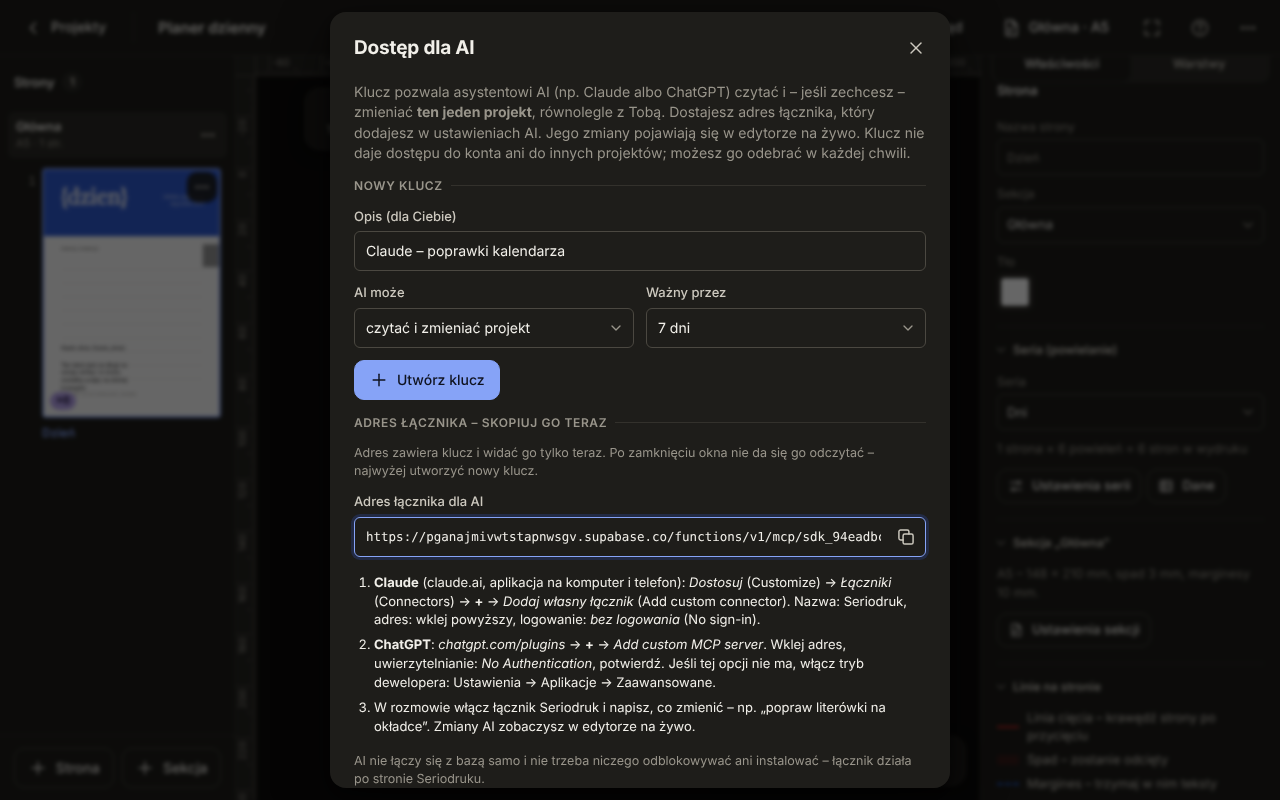
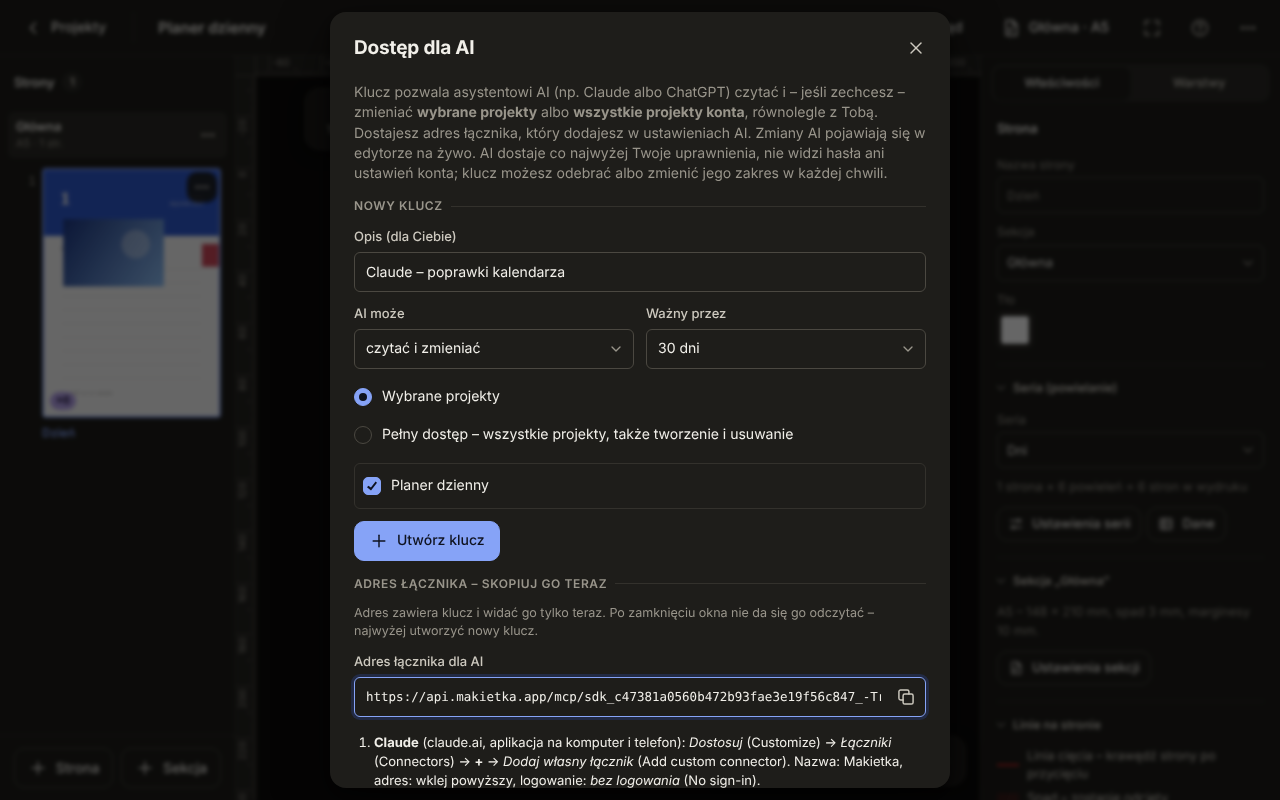
WIP: klucze AI konta – dokumentacja łącznika, instrukcja, zrzut okna

diff --git a/js/instrukcja.js b/js/instrukcja.js
@@ -520,17 +520,18 @@ export const ROZDZIALY = [
   },
   {
     tytul: 'Praca z AI',
-    wstep: 'Asystent AI (Claude, ChatGPT) może czytać i poprawiać jeden projekt razem z Tobą. Podłączasz go adresem łącznika Makietka – bez instalowania czegokolwiek i bez zmieniania ustawień sieci. Zmiany AI pojawiają się w otwartym edytorze po chwili, tak jak zmiany z drugiego urządzenia.',
+    wstep: 'Asystent AI (Claude, ChatGPT) może czytać i poprawiać wybrane projekty albo wszystkie projekty konta razem z Tobą – a z pełnym dostępem także tworzyć i usuwać projekty. Podłączasz go adresem łącznika Makietka – bez instalowania czegokolwiek i bez zmieniania ustawień sieci. Zmiany AI pojawiają się w otwartym edytorze po chwili, tak jak zmiany z drugiego urządzenia.',
     obraz: 'dostep-ai.png',
-    podpis: 'Nowy klucz dla AI: adres łącznika do skopiowania i kroki dla Claude i ChatGPT.',
+    podpis: 'Klucze AI konta: zakres (wybrane projekty albo pełny dostęp), adres łącznika do skopiowania i kroki dla Claude i ChatGPT.',
     punkty: [
-      'W edytorze menu <b>⋯</b> → <b>Dostęp dla AI…</b>. Wpisz, dla kogo jest klucz, wybierz <b>Czyta i zmienia</b> albo <b>Tylko czyta</b> i ważność (1, 7 albo 30 dni), potem <b>Utwórz klucz</b>.',
+      'Klucz należy do konta: <b>Ustawienia konta → Dostęp dla AI → Zarządzaj…</b> (albo w edytorze menu <b>⋯</b> → <b>Dostęp dla AI…</b> – wtedy otwarty projekt jest od razu zaznaczony). Wpisz, dla kogo jest klucz, wybierz <b>Czyta i zmienia</b> albo <b>Tylko czyta</b>, ważność (od 1 dnia do roku albo bez terminu) i zakres, potem <b>Utwórz klucz</b>.',
+      '<b>Zakres.</b> <b>Wybrane projekty</b> – zaznaczasz projekty (własne i udostępnione Ci przez innych). <b>Pełny dostęp</b> – wszystkie projekty konta, także te, które dojdą później; AI może wtedy też <b>tworzyć nowe projekty</b> i <b>usuwać</b> Twoje (zawsze z podaniem dokładnej nazwy projektu). W rozmowie AI zaczyna od listy projektów i pyta, na którym pracować – albo napisz od razu, np. „w projekcie Kalendarz 2027 popraw literówki”.',
       'Okno pokaże <b>adres łącznika</b> (z kluczem w środku). Widać go <b>tylko raz</b> – skopiuj go od razu przyciskiem obok.',
       '<b>Claude</b> (claude.ai, aplikacja na komputer i telefon): <b>Dostosuj → Łączniki</b> (Customize → Connectors) → <b>+</b> → <b>Dodaj własny łącznik</b>. Nazwa: Makietka, adres: wklej skopiowany, logowanie: <b>bez logowania</b> (No sign-in). W rozmowie włącz łącznik i napisz np. „Przejrzyj mój projekt w Makietce i popraw literówki w tytułach”.',
       '<b>ChatGPT</b>: <b>chatgpt.com/plugins</b> → <b>+</b> → <b>Add custom MCP server</b>, wklej adres, uwierzytelnianie <b>No Authentication</b>, potwierdź. Gdy tej opcji nie ma, włącz tryb dewelopera (Ustawienia → Aplikacje → Zaawansowane).',
       'Łącznik działa po stronie Makietki: Claude i ChatGPT łączą się z nim ze swoich serwerów. Jeśli AI prosi o odblokowanie domeny albo zmianę ustawień sieci, żeby łączyć się z bazą, nie rób tego – poproś, żeby użyło narzędzi łącznika Makietka (a jeśli ich nie ma, dodaj łącznik jak wyżej).',
       'W części <b>Dla zaawansowanych</b> okno ma sam klucz, polecenie dla <b>Claude Code</b> i serwer do uruchomienia u siebie. Szczegóły: <a href="ai/api.md" target="_blank" rel="noopener">Dostęp dla AI</a>.',
-      'Klucz otwiera <b>tylko ten projekt</b>: AI może zmieniać strony, elementy, wzorce, style, tabele danych, serie i sekcje oraz obrazy projektu, ale nie utworzy ani nie usunie projektu, nie wgra czcionek i nie zobaczy innych projektów.',
+      'AI dostaje co najwyżej Twoje uprawnienia: w projekcie, który ktoś Ci udostępnił tylko do oglądania, klucz tylko czyta, a gdy właściciel odbierze Ci dostęp, klucz traci go od razu. Klucz nie otwiera ustawień konta, hasła, czcionek konta, linków udostępniania ani współpracy.',
       '<b>Obrazy przez AI.</b> AI robi z obrazami to samo co Ty w oknie <b>Obrazy projektu</b>: wgrywa je, wstawia na stronę jako pojedyncze zdjęcie (z ramką „zmieść” albo „wypełnij”), zmienia nazwy, podmienia pliki, usuwa nieużywane i porządkuje powtórzenia. Wgrany obraz pojawia się u Ciebie po chwili, a przy najbliższym zapisie trafia na Twoje konto jak każdy inny.',
       '<b>Skąd AI bierze zdjęcia.</b> Łącznik przyjmuje od AI tylko tekst, więc zdjęcia, które masz u siebie, dochodzą inną drogą – zależnie od aplikacji. Wielkość nie gra roli: jeden obraz do 25 MB, ZIP do 50 MB.',
       '<b>ChatGPT:</b> zdjęcia i ZIP-y wrzucone do rozmowy wchodzą wprost – ChatGPT sam podaje je łącznikowi.',
@@ -539,9 +540,10 @@ export const ROZDZIALY = [
       '<b>Poza tym:</b> link do pliku albo ZIP-a na <b>Dysku Google</b> lub w <b>Dropboxie</b> udostępnionego „każdemu, kto ma link” (Dropbox odda też cały folder) i rysunki SVG, które AI samo narysuje (ozdobniki, ikony, ramki).',
       '<b>Wymiana użytych zdjęć.</b> Obrazu, który stoi na stronie, AI nie usuwa – zostałaby pusta ramka. Wymienia go jednym krokiem na nowy plik (podmiana): wszystkie strony, wzorce i dane pokazują od razu nowy, a stary znika. Gdy wgrywasz sam, to samo daje w oknie <b>Obrazy projektu</b> „Zastąp” z zaznaczonym „Tak samo dla pozostałych plików o powtórzonych nazwach”. Szczegóły: <a href="ai/api.md" target="_blank" rel="noopener">Dostęp dla AI</a>.',
       'Zmiany AI łączą się z Twoimi element po elemencie: gdy Ty przesuwasz zdjęcie, a AI poprawia tytuł, zostają obie zmiany. <b>Cofnij</b> zdejmuje tylko Twoje zmiany.',
-      'Lista w tym samym oknie pokazuje aktywne klucze i to, kiedy ostatnio ich użyto. <b>Odbierz</b> wyłącza klucz – i adres łącznika – od razu.',
+      'Lista <b>Klucze konta</b> pokazuje zakres, ważność i to, kiedy klucza ostatnio użyto. <b>Zmień zakres</b> dodaje i usuwa projekty albo przełącza na pełny dostęp – adres łącznika się nie zmienia. <b>Odbierz</b> wyłącza klucz – i adres łącznika – od razu.',
+      'Projekt utworzony przez AI pojawia się na liście projektów od razu. Projekt usunięty przez AI znika z listy (także z tego urządzenia); jeśli akurat był otwarty, edytor zamyka się z wyjaśnieniem.',
     ],
-    rada: 'Adres łącznika (z kluczem) trafia do firmy, która prowadzi AI. Dawaj najkrótszą ważność, jaka wystarczy, i odbieraj klucz po skończonej pracy. Przed dużymi zmianami zrób <b>Eksport</b> projektu.',
+    rada: 'Adres łącznika (z kluczem) trafia do firmy, która prowadzi AI. Dawaj najwęższy zakres i najkrótszą ważność, jaka wystarczy, i odbieraj klucz po skończonej pracy. Pełny dostęp daj tylko AI, któremu ufasz przy usuwaniu projektów. Przed dużymi zmianami zrób <b>Eksport</b> projektu.',
   },
   {
     tytul: 'Linie i ostrzeżenia',

diff --git a/ai/api.md b/ai/api.md
@@ -1,27 +1,33 @@
 # Makietka – dostęp dla AI
 
-Asystent AI (Claude, ChatGPT i inne) może czytać i poprawiać **jeden konkretny projekt** Makietki – równolegle z Tobą. Jego zmiany pojawiają się w otwartym edytorze po chwili, tak jak zmiany z drugiego urządzenia: zmiany różnych elementów łączą się bez pytania, a o ten sam element aplikacja zapyta.
+Asystent AI (Claude, ChatGPT i inne) może czytać i poprawiać **wybrane projekty** Makietki albo **wszystkie projekty konta** (wtedy także tworzyć i usuwać projekty) – równolegle z Tobą. Jego zmiany pojawiają się w otwartym edytorze po chwili, tak jak zmiany z drugiego urządzenia: zmiany różnych elementów łączą się bez pytania, a o ten sam element aplikacja zapyta.
 
 Dokumenty obok: [instrukcja obsługi](https://makietka.app/ai/instrukcja.md), [format projektu](https://makietka.app/ai/format-makietka.md) (model danych, który AI zmienia).
 
-> **Dla asystenta AI:** nie łącz się z bazą z własnej piaskownicy – używaj narzędzi łącznika Makietka. Projekt czytasz i zmieniasz wyłącznie narzędziami łącznika (`przeglad_projektu`, `czytaj`, `zmien_elementy`…); one działają po stronie Makietki. Jeśli tych narzędzi nie masz, poproś użytkownika o dodanie łącznika (punkt 2) – nie proś o odblokowanie domen ani o zmianę ustawień sieci. Pliki z własnego środowiska wgrywasz narzędziem `wgraj_czesciami`.
+> **Dla asystenta AI:** nie łącz się z bazą z własnej piaskownicy – używaj narzędzi łącznika Makietka. Zacznij od narzędzia `projekty` (projekty w zasięgu klucza), a w narzędziach projektu podawaj `projekt` (id albo nazwa). Projekty czytasz i zmieniasz wyłącznie narzędziami łącznika (`przeglad_projektu`, `czytaj`, `zmien_elementy`…); one działają po stronie Makietki. Jeśli tych narzędzi nie masz, poproś użytkownika o dodanie łącznika (punkt 2) – nie proś o odblokowanie domen ani o zmianę ustawień sieci. Pliki z własnego środowiska wgrywasz narzędziem `wgraj_czesciami`.
 
 ## 1. Klucz i adres łącznika
 
-1. Otwórz projekt, menu **⋯** → **Dostęp dla AI…**.
-2. Wpisz, dla kogo jest klucz (np. „Claude – kalendarz”), wybierz **Czyta i zmienia** albo **Tylko czyta** i ważność: 1 dzień, 7 albo 30 dni.
+Klucz należy do **konta**, nie do jednego projektu.
+
+1. **Ustawienia konta → Dostęp dla AI → Zarządzaj…** (albo w otwartym projekcie menu **⋯** → **Dostęp dla AI…** – wtedy ten projekt jest od razu zaznaczony).
+2. Wpisz, dla kogo jest klucz (np. „Claude – kalendarze”), wybierz **Czyta i zmienia** albo **Tylko czyta**, ważność (1, 7, 30, 90 dni, rok albo bez terminu) i zakres:
+   - **Wybrane projekty** – zaznaczasz projekty (własne i udostępnione Ci przez innych); listę zmienisz potem bez zmiany adresu,
+   - **Pełny dostęp** – wszystkie projekty konta, także te, które dojdą później; klucz, który czyta i zmienia, może wtedy **tworzyć i usuwać** projekty.
 3. **Utwórz klucz**. Okno pokazuje **adres łącznika** z kluczem w środku:
    `https://api.makietka.app/mcp/sdk_…` – skopiuj go od razu, widać go **tylko raz**.
-4. Lista w tym samym oknie pokazuje aktywne klucze i to, kiedy ostatnio ich użyto. **Odbierz** wyłącza klucz (i adres) od razu.
+4. Lista **Klucze konta** pokazuje zakres, ważność i ostatnie użycie. **Zmień zakres** dodaje i usuwa projekty (albo przełącza na pełny dostęp) – adres łącznika się nie zmienia. **Odbierz** wyłącza klucz (i adres) od razu.
+
+AI dostaje co najwyżej Twoje uprawnienia: w projekcie, który ktoś Ci udostępnił do oglądania, klucz tylko czyta; gdy właściciel odbierze Ci dostęp, klucz traci go od razu.
 
 Łącznik to serwer MCP działający po stronie Makietki. Claude i ChatGPT łączą się z nim **ze swoich serwerów**, więc niczego nie instalujesz i niczego nie odblokowujesz – ani na komputerze, ani w ustawieniach AI.
 
 ### Bezpieczeństwo
 
-- Adres z kluczem trafia do firmy, która prowadzi AI (Anthropic, OpenAI…). Dlatego klucz jest **wąski**: otwiera jeden projekt, nie konto. Nie da się nim utworzyć ani usunąć projektu, wgrać czcionek, zmienić udostępniania ani zajrzeć do innych projektów. Obrazy klucz do zmian wgrywa, ale tylko do tego projektu i z limitami (obraz do 15 MB, pobierany plik do 50 MB, do 150 MB obrazów czekających na przeniesienie na konto).
+- Adres z kluczem trafia do firmy, która prowadzi AI (Anthropic, OpenAI…). Dlatego daj kluczowi **najwęższy zakres**, jaki wystarczy: wybrane projekty zamiast pełnego dostępu. Klucz nigdy nie otwiera ustawień konta, hasła, czcionek konta, udostępniania linkiem ani współpracy. Tworzyć i usuwać projekty może tylko klucz z pełnym dostępem, który czyta i zmienia; usunięcie wymaga podania dokładnej nazwy projektu, a usunąć można tylko własny projekt (nie udostępniony). Obrazy klucz do zmian wgrywa z limitami (obraz do 25 MB, pobierany plik do 50 MB, do 150 MB obrazów na projekt czekających na przeniesienie na konto).
 - Daj **najkrótszą ważność**, jaka wystarczy, i **odbierz** klucz, gdy praca się skończy. Do samego przeglądania wybierz **Tylko czyta**. Nie wklejaj adresu łącznika w miejsca, które widzą inni.
 - W bazie leży tylko skrót klucza (z solą) – klucza nie da się z niej odczytać ani pokazać ponownie. Zgubiony klucz odbierz i utwórz nowy.
-- Po 10 złych próbach klucz blokuje się na kwadrans; jeden klucz może wykonać do 120 zapytań na minutę; projekt może mieć do 20 aktywnych kluczy.
+- Po 10 złych próbach klucz blokuje się na kwadrans; jeden klucz może wykonać do 120 zapytań na minutę; konto może mieć do 20 aktywnych kluczy.
 - Każdy zapis przechodzi kontrolę spójności (sekcje, wzorce, serie, tabele, obrazy). Niespójna zmiana jest odrzucana z opisem, co poprawić – nie psuje projektu.
 - Zmiany AI to zwykłe zmiany projektu: **Cofnij** w edytorze ich nie zdejmuje (jak zmian z innego urządzenia), ale możesz je poprawić ręcznie; przed dużymi zmianami zrób **Eksport** (kopia zapasowa).
 
@@ -79,8 +85,13 @@ Bez łącznika ChatGPT może wołać funkcje bazy przez opis [openapi.json](http
 
 ## 3. Narzędzia łącznika
 
+Każde narzędzie projektu ma parametr `projekt` (id albo nazwa z listy `projekty`); gdy klucz obejmuje jeden projekt, można go pominąć.
+
 | Narzędzie | Co robi |
 |---|---|
+| `projekty` | lista projektów w zasięgu klucza: id, nazwa, Twój czy udostępniony (przez kogo), czy AI może go zmieniać, ostatnia zmiana; zakres klucza |
+| `nowy_projekt` | nowy, pusty projekt jak „Nowy projekt” w aplikacji: nazwa, format (A4, A5, A6, B5, Kwadrat albo własny w mm), orientacja, pojedyncze strony albo rozkładówki, spad, marginesy – tylko klucz z pełnym dostępem |
+| `usun_projekt` | usuwa własny projekt konta; `potwierdz` – dokładna nazwa projektu – tylko klucz z pełnym dostępem |
 | `przeglad_projektu` | krótki opis: sekcje, strony z elementami (id, rodzaj, początek tekstu), wzorce, style, tabele, serie, obrazy |
 | `czytaj` | pełny JSON strony, wzorca, sekcji, stylu, tabeli, serii, widoku albo całego projektu |
 | `zmien_elementy` | zmienia pola elementów (po id) na stronie albo we wzorcu; `null` usuwa pole |
@@ -152,14 +163,14 @@ Własny skrypt (albo AI w środowisku, które łączy się z bazą) wysyła plik
 
 ```
 curl -X POST --data-binary @zdjecia.zip \
-  "https://api.makietka.app/mcp/sdk_…/obraz?nazwa=zdjecia.zip"
+  "https://api.makietka.app/mcp/sdk_…/obraz?projekt=<id projektu>&nazwa=zdjecia.zip"
 ```
 
 ```python
 import requests
 with open("styczen.jpg", "rb") as f:
     r = requests.post("https://api.makietka.app/mcp/sdk_…/obraz",
-                      params={"nazwa": "styczen.jpg"}, data=f.read())
+                      params={"projekt": "<id projektu>", "nazwa": "styczen.jpg"}, data=f.read())
 print(r.json())  # {"wgrane": [{"nazwa": "styczen.jpg", "id": "z_ai…", "szer": 4000, "wys": 3000, "byl": false}], "opis": "…"}
 ```
 
@@ -169,9 +180,15 @@ Parametry: `nazwa` (z rozszerzeniem), opcjonalnie `zastap` (id albo nazwa obrazu
 
 Adres: `https://api.makietka.app/rest/v1/rpc/<funkcja>`, `POST`, nagłówek `apikey` z publicznym kluczem bazy, treść JSON. Błędy klucza i spójności wracają jako `{"blad": "…", "szczegoly": [...]}` z kodem 200.
 
+**Projekt w kluczu.** Funkcje projektu (`ai_projekt`, `ai_zapisz`, `ai_wgraj_*`, `ai_zmien_obrazy`) dostają projekt w samym parametrze `p_klucz`: klucz, ukośnik i id projektu – `"sdk_…/<uuid projektu>"`. Sam klucz (bez ukośnika) działa, gdy obejmuje dokładnie jeden projekt.
+
+### `ai_projekty`, `ai_nowy_projekt`, `ai_usun_projekt` – projekty konta
+
+`ai_projekty(p_klucz)` → `{"dostep": {"rola", "zakres", "opis", "wazny_do", "tworzenie"}, "projekty": [{"id", "nazwa", "zmieniono", "wersja", "wlasciciel", "moja_rola", "rola"}]}` (`wazny_do` null – bez terminu; `rola` – co może AI w tym projekcie). `ai_nowy_projekt(p_klucz, p_id, p_nazwa, p_dane, p_strony)` – nowy projekt (uuid `p_id`, `p_dane` bez stron, `p_strony` – pełne strony) → `{"id", "nazwa", "wersja"}`. `ai_usun_projekt(p_klucz, p_projekt, p_potwierdz)` – `p_potwierdz` to dokładna nazwa projektu → `{"usunieto", "nazwa"}`. Obie tylko dla klucza z pełnym dostępem, który czyta i zmienia.
+
 ### `ai_projekt` – odczyt
 
-Treść: `{"p_klucz": "sdk_…"}`. Wynik: `{"dostep": {"rola", "opis", "wazny_do"}, "wersja": 12, "projekt": {…}}`. Projekt ma strony w środku (`strony` – lista obiektów stron w kolejności), a `zasoby` tylko z opisem (bez treści plików): `{"z_ab12": {"nazwa": "las.jpg", "typ": "image/jpeg", "szer": 4000, "wys": 3000, "rozmiar": 2345678, "skrot": "…"}}` (wymiary w pikselach, rozmiar w bajtach, `skrot` – SHA-256 treści; starsze obrazy mogą nie mieć wymiarów ani skrótu).
+Treść: `{"p_klucz": "sdk_…/<id projektu>"}`. Wynik: `{"dostep": {"rola", "opis", "wazny_do"}, "wersja": 12, "projekt": {…}}`. Projekt ma strony w środku (`strony` – lista obiektów stron w kolejności), a `zasoby` tylko z opisem (bez treści plików): `{"z_ab12": {"nazwa": "las.jpg", "typ": "image/jpeg", "szer": 4000, "wys": 3000, "rozmiar": 2345678, "skrot": "…"}}` (wymiary w pikselach, rozmiar w bajtach, `skrot` – SHA-256 treści; starsze obrazy mogą nie mieć wymiarów ani skrótu).
 
 ### `ai_zapisz` – zapis
 
@@ -206,4 +223,4 @@ Treść: `{"p_klucz": "sdk_…", "p_kopie": {"z_nowe": {"z": "z_ab12", "nazwa": 
 
 ### Funkcje właściciela (zalogowany użytkownik aplikacji)
 
-`utworz_dostep_ai(p_projekt, p_opis, p_rola, p_dni)` → `{id, klucz, wazny_do}`, `dostepy_ai(p_projekt)` → lista kluczy bez ich treści, `odwolaj_dostep_ai(p_id)`. Obrazy od AI: `pobierz_obraz_ai(p_id)` → `{typ, nazwa, dane}` (base64) albo – dla pliku w kawałkach – `{typ, nazwa, rozmiar, skrot, czesci}` i wtedy `pobierz_czesc_obrazu_ai(p_id, p_nr)` → base64 kawałka; `usun_obraz_ai(p_id)`; pliki do usunięcia z folderu konta: `pliki_do_usuniecia(p_projekt)` → lista ścieżek, `pliki_usuniete(p_projekt, p_sciezki)`. Tabela `dostepy_projektu` ma pole `rodzaj` (`klucz` albo `uzytkownik`) – przygotowane pod późniejsze wspólne edytowanie projektu przez innych użytkowników.
+`utworz_dostep_ai(p_opis, p_rola, p_dni, p_zakres, p_projekty)` → `{id, klucz, wazny_do}` (`p_dni` null – bez terminu; `p_zakres` `wybrane` z listą `p_projekty` albo `pelny`), `dostepy_ai()` → klucze konta bez ich treści (z zakresem i nazwami projektów), `zmien_dostep_ai(p_id, p_zakres, p_projekty)` – nowy zakres bez zmiany klucza, `odwolaj_dostep_ai(p_id)`. Obrazy od AI: `pobierz_obraz_ai(p_id)` → `{typ, nazwa, dane}` (base64) albo – dla pliku w kawałkach – `{typ, nazwa, rozmiar, skrot, czesci}` i wtedy `pobierz_czesc_obrazu_ai(p_id, p_nr)` → base64 kawałka; `usun_obraz_ai(p_id)`; pliki do usunięcia z folderu konta: `pliki_do_usuniecia(p_projekt)` → lista ścieżek, `pliki_usuniete(p_projekt, p_sciezki)`.

diff --git a/ai/instrukcja.md b/ai/instrukcja.md
@@ -569,18 +569,19 @@ Projekt możesz robić razem z innymi osobami – każda na swoim koncie. Zapras
 
 ## 28. Praca z AI
 
-Asystent AI (Claude, ChatGPT) może czytać i poprawiać jeden projekt razem z Tobą. Podłączasz go adresem łącznika Makietka – bez instalowania czegokolwiek i bez zmieniania ustawień sieci. Zmiany AI pojawiają się w otwartym edytorze po chwili, tak jak zmiany z drugiego urządzenia.
+Asystent AI (Claude, ChatGPT) może czytać i poprawiać wybrane projekty albo wszystkie projekty konta razem z Tobą – a z pełnym dostępem także tworzyć i usuwać projekty. Podłączasz go adresem łącznika Makietka – bez instalowania czegokolwiek i bez zmieniania ustawień sieci. Zmiany AI pojawiają się w otwartym edytorze po chwili, tak jak zmiany z drugiego urządzenia.
 
-![Nowy klucz dla AI: adres łącznika do skopiowania i kroki dla Claude i ChatGPT.](https://makietka.app/img/instrukcja/dostep-ai.png)
-*Nowy klucz dla AI: adres łącznika do skopiowania i kroki dla Claude i ChatGPT.*
+![Klucze AI konta: zakres (wybrane projekty albo pełny dostęp), adres łącznika do skopiowania i kroki dla Claude i ChatGPT.](https://makietka.app/img/instrukcja/dostep-ai.png)
+*Klucze AI konta: zakres (wybrane projekty albo pełny dostęp), adres łącznika do skopiowania i kroki dla Claude i ChatGPT.*
 
-- W edytorze menu **⋯** → **Dostęp dla AI…**. Wpisz, dla kogo jest klucz, wybierz **Czyta i zmienia** albo **Tylko czyta** i ważność (1, 7 albo 30 dni), potem **Utwórz klucz**.
+- Klucz należy do konta: **Ustawienia konta → Dostęp dla AI → Zarządzaj…** (albo w edytorze menu **⋯** → **Dostęp dla AI…** – wtedy otwarty projekt jest od razu zaznaczony). Wpisz, dla kogo jest klucz, wybierz **Czyta i zmienia** albo **Tylko czyta**, ważność (od 1 dnia do roku albo bez terminu) i zakres, potem **Utwórz klucz**.
+- **Zakres.** **Wybrane projekty** – zaznaczasz projekty (własne i udostępnione Ci przez innych). **Pełny dostęp** – wszystkie projekty konta, także te, które dojdą później; AI może wtedy też **tworzyć nowe projekty** i **usuwać** Twoje (zawsze z podaniem dokładnej nazwy projektu). W rozmowie AI zaczyna od listy projektów i pyta, na którym pracować – albo napisz od razu, np. „w projekcie Kalendarz 2027 popraw literówki”.
 - Okno pokaże **adres łącznika** (z kluczem w środku). Widać go **tylko raz** – skopiuj go od razu przyciskiem obok.
 - **Claude** (claude.ai, aplikacja na komputer i telefon): **Dostosuj → Łączniki** (Customize → Connectors) → **+** → **Dodaj własny łącznik**. Nazwa: Makietka, adres: wklej skopiowany, logowanie: **bez logowania** (No sign-in). W rozmowie włącz łącznik i napisz np. „Przejrzyj mój projekt w Makietce i popraw literówki w tytułach”.
 - **ChatGPT**: **chatgpt.com/plugins** → **+** → **Add custom MCP server**, wklej adres, uwierzytelnianie **No Authentication**, potwierdź. Gdy tej opcji nie ma, włącz tryb dewelopera (Ustawienia → Aplikacje → Zaawansowane).
 - Łącznik działa po stronie Makietki: Claude i ChatGPT łączą się z nim ze swoich serwerów. Jeśli AI prosi o odblokowanie domeny albo zmianę ustawień sieci, żeby łączyć się z bazą, nie rób tego – poproś, żeby użyło narzędzi łącznika Makietka (a jeśli ich nie ma, dodaj łącznik jak wyżej).
 - W części **Dla zaawansowanych** okno ma sam klucz, polecenie dla **Claude Code** i serwer do uruchomienia u siebie. Szczegóły: [Dostęp dla AI](https://makietka.app/ai/api.md).
-- Klucz otwiera **tylko ten projekt**: AI może zmieniać strony, elementy, wzorce, style, tabele danych, serie i sekcje oraz obrazy projektu, ale nie utworzy ani nie usunie projektu, nie wgra czcionek i nie zobaczy innych projektów.
+- AI dostaje co najwyżej Twoje uprawnienia: w projekcie, który ktoś Ci udostępnił tylko do oglądania, klucz tylko czyta, a gdy właściciel odbierze Ci dostęp, klucz traci go od razu. Klucz nie otwiera ustawień konta, hasła, czcionek konta, linków udostępniania ani współpracy.
 - **Obrazy przez AI.** AI robi z obrazami to samo co Ty w oknie **Obrazy projektu**: wgrywa je, wstawia na stronę jako pojedyncze zdjęcie (z ramką „zmieść” albo „wypełnij”), zmienia nazwy, podmienia pliki, usuwa nieużywane i porządkuje powtórzenia. Wgrany obraz pojawia się u Ciebie po chwili, a przy najbliższym zapisie trafia na Twoje konto jak każdy inny.
 - **Skąd AI bierze zdjęcia.** Łącznik przyjmuje od AI tylko tekst, więc zdjęcia, które masz u siebie, dochodzą inną drogą – zależnie od aplikacji. Wielkość nie gra roli: jeden obraz do 25 MB, ZIP do 50 MB.
 - **ChatGPT:** zdjęcia i ZIP-y wrzucone do rozmowy wchodzą wprost – ChatGPT sam podaje je łącznikowi.
@@ -589,9 +590,10 @@ Asystent AI (Claude, ChatGPT) może czytać i poprawiać jeden projekt razem z T
 - **Poza tym:** link do pliku albo ZIP-a na **Dysku Google** lub w **Dropboxie** udostępnionego „każdemu, kto ma link” (Dropbox odda też cały folder) i rysunki SVG, które AI samo narysuje (ozdobniki, ikony, ramki).
 - **Wymiana użytych zdjęć.** Obrazu, który stoi na stronie, AI nie usuwa – zostałaby pusta ramka. Wymienia go jednym krokiem na nowy plik (podmiana): wszystkie strony, wzorce i dane pokazują od razu nowy, a stary znika. Gdy wgrywasz sam, to samo daje w oknie **Obrazy projektu** „Zastąp” z zaznaczonym „Tak samo dla pozostałych plików o powtórzonych nazwach”. Szczegóły: [Dostęp dla AI](https://makietka.app/ai/api.md).
 - Zmiany AI łączą się z Twoimi element po elemencie: gdy Ty przesuwasz zdjęcie, a AI poprawia tytuł, zostają obie zmiany. **Cofnij** zdejmuje tylko Twoje zmiany.
-- Lista w tym samym oknie pokazuje aktywne klucze i to, kiedy ostatnio ich użyto. **Odbierz** wyłącza klucz – i adres łącznika – od razu.
+- Lista **Klucze konta** pokazuje zakres, ważność i to, kiedy klucza ostatnio użyto. **Zmień zakres** dodaje i usuwa projekty albo przełącza na pełny dostęp – adres łącznika się nie zmienia. **Odbierz** wyłącza klucz – i adres łącznika – od razu.
+- Projekt utworzony przez AI pojawia się na liście projektów od razu. Projekt usunięty przez AI znika z listy (także z tego urządzenia); jeśli akurat był otwarty, edytor zamyka się z wyjaśnieniem.
 
-> Adres łącznika (z kluczem) trafia do firmy, która prowadzi AI. Dawaj najkrótszą ważność, jaka wystarczy, i odbieraj klucz po skończonej pracy. Przed dużymi zmianami zrób **Eksport** projektu.
+> Adres łącznika (z kluczem) trafia do firmy, która prowadzi AI. Dawaj najwęższy zakres i najkrótszą ważność, jaka wystarczy, i odbieraj klucz po skończonej pracy. Pełny dostęp daj tylko AI, któremu ufasz przy usuwaniu projektów. Przed dużymi zmianami zrób **Eksport** projektu.
 
 ## 29. Linie i ostrzeżenia
 
